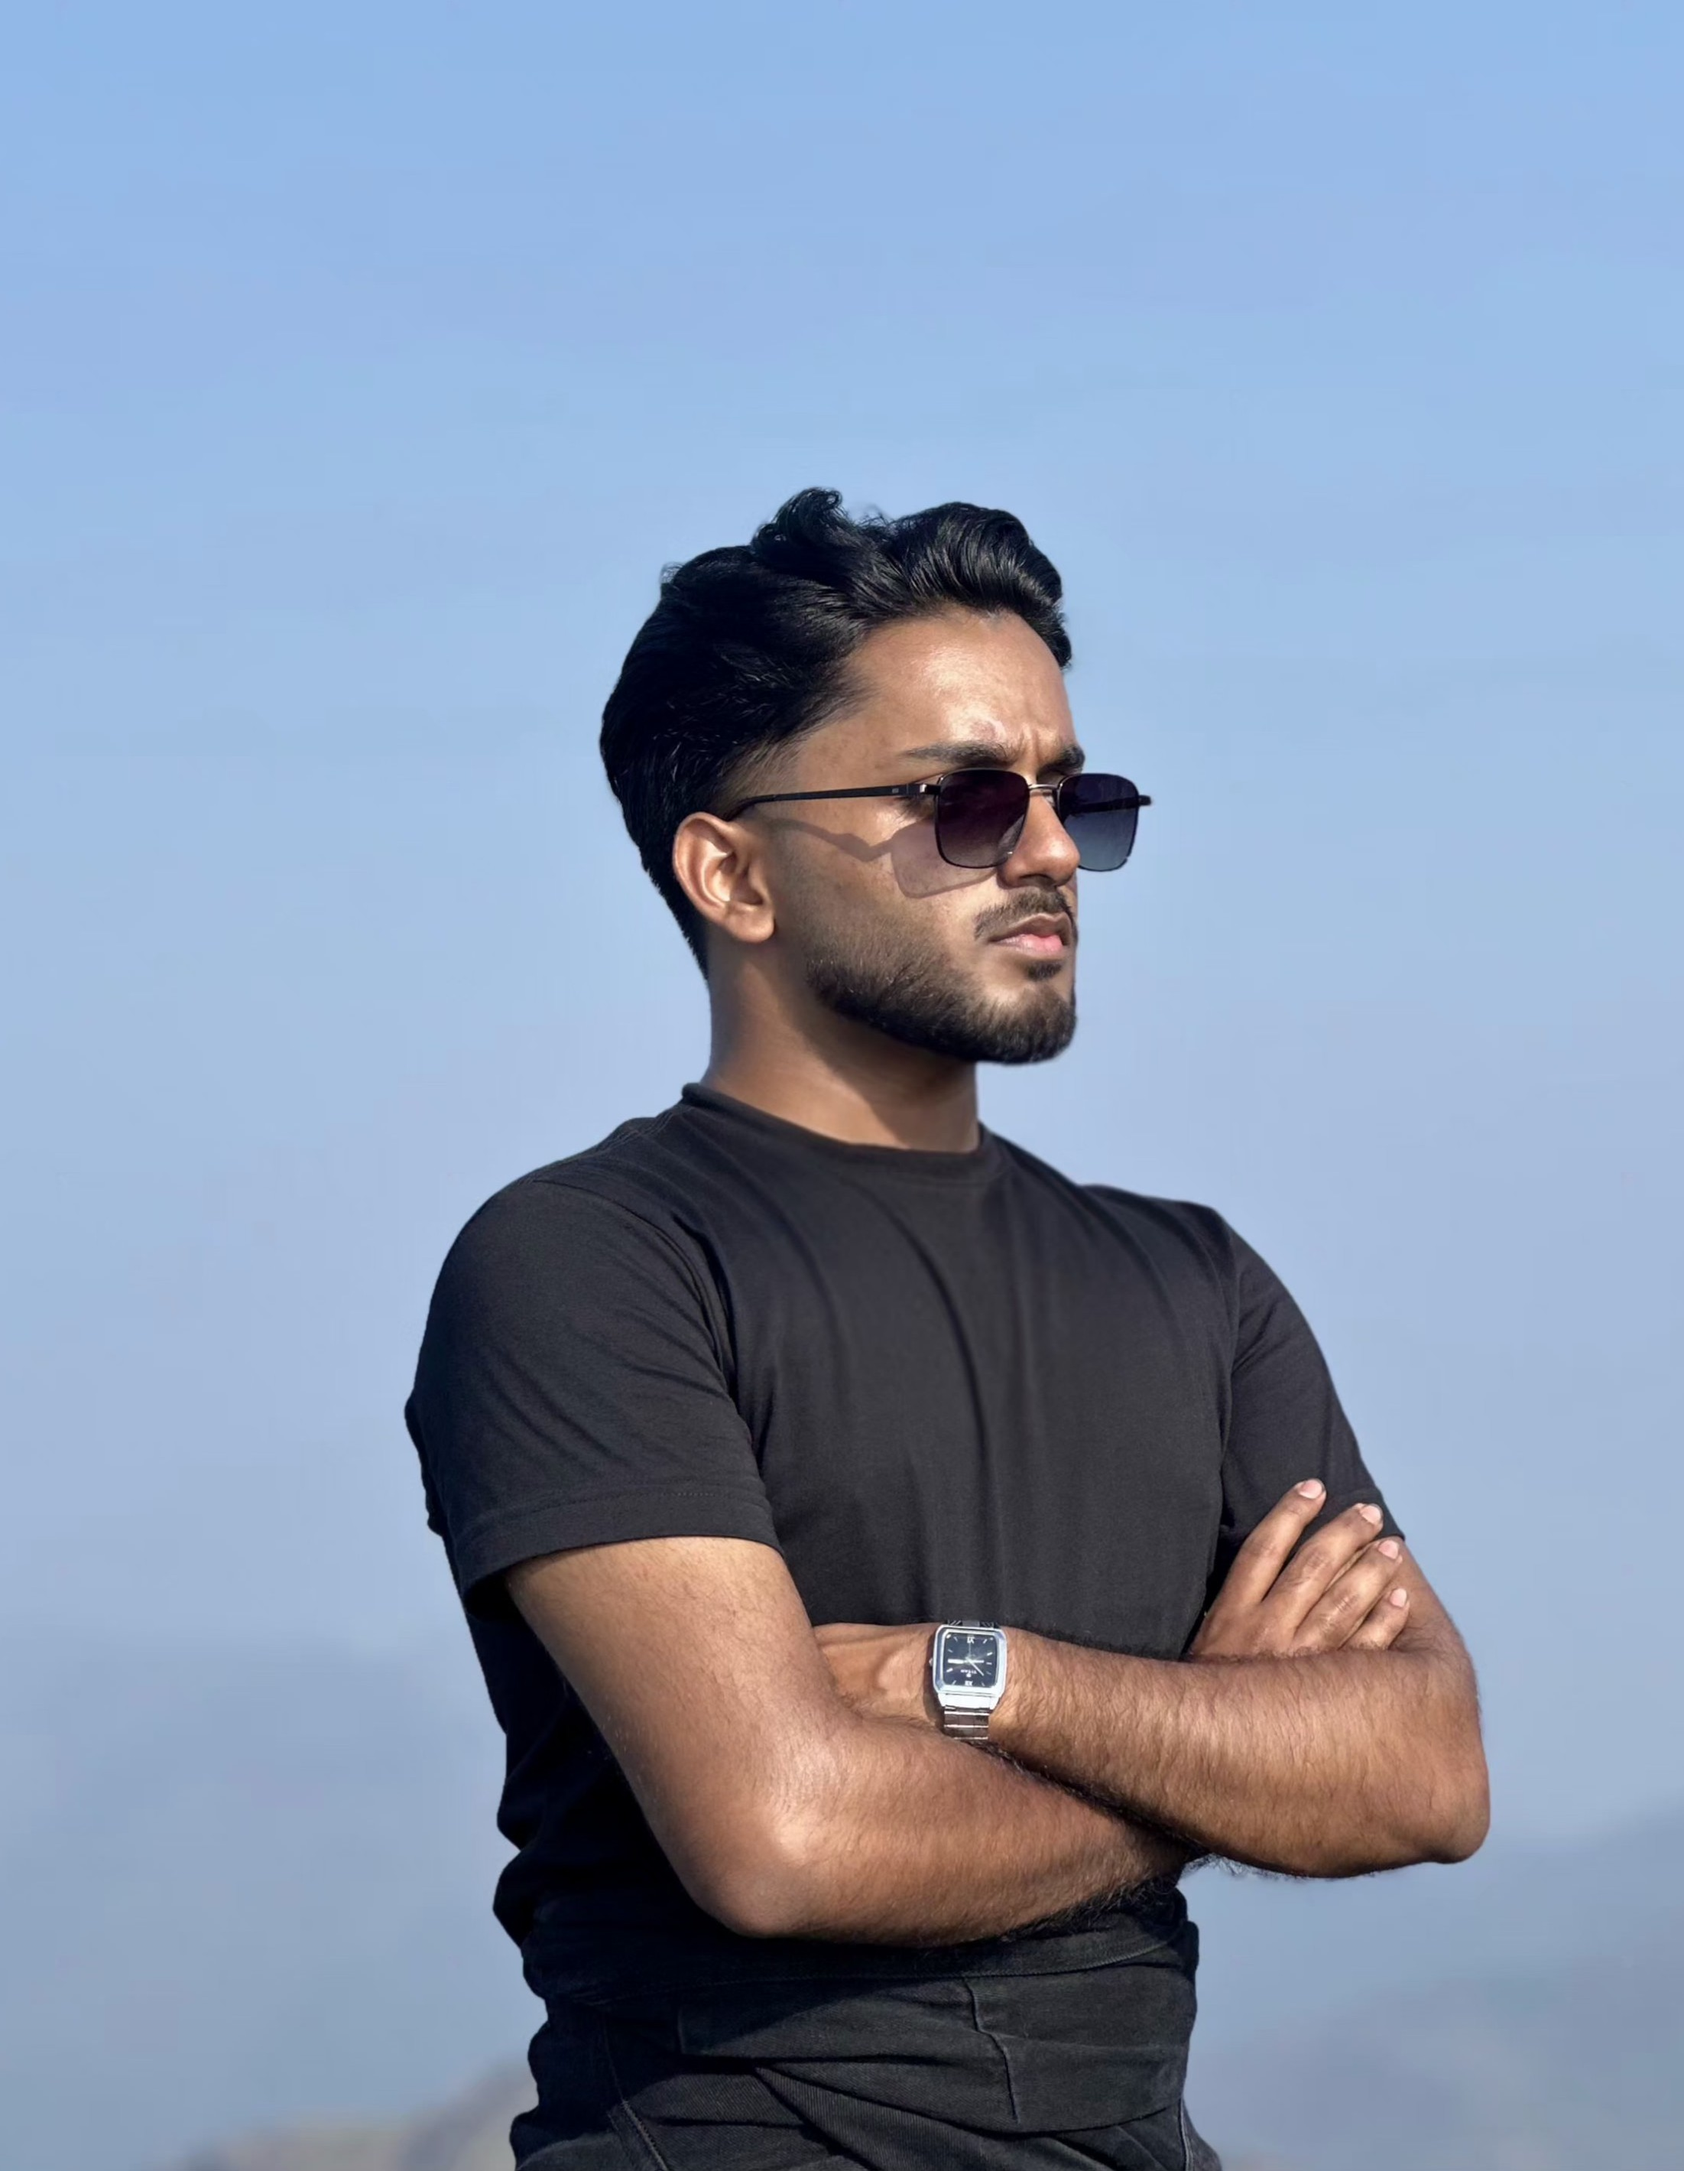
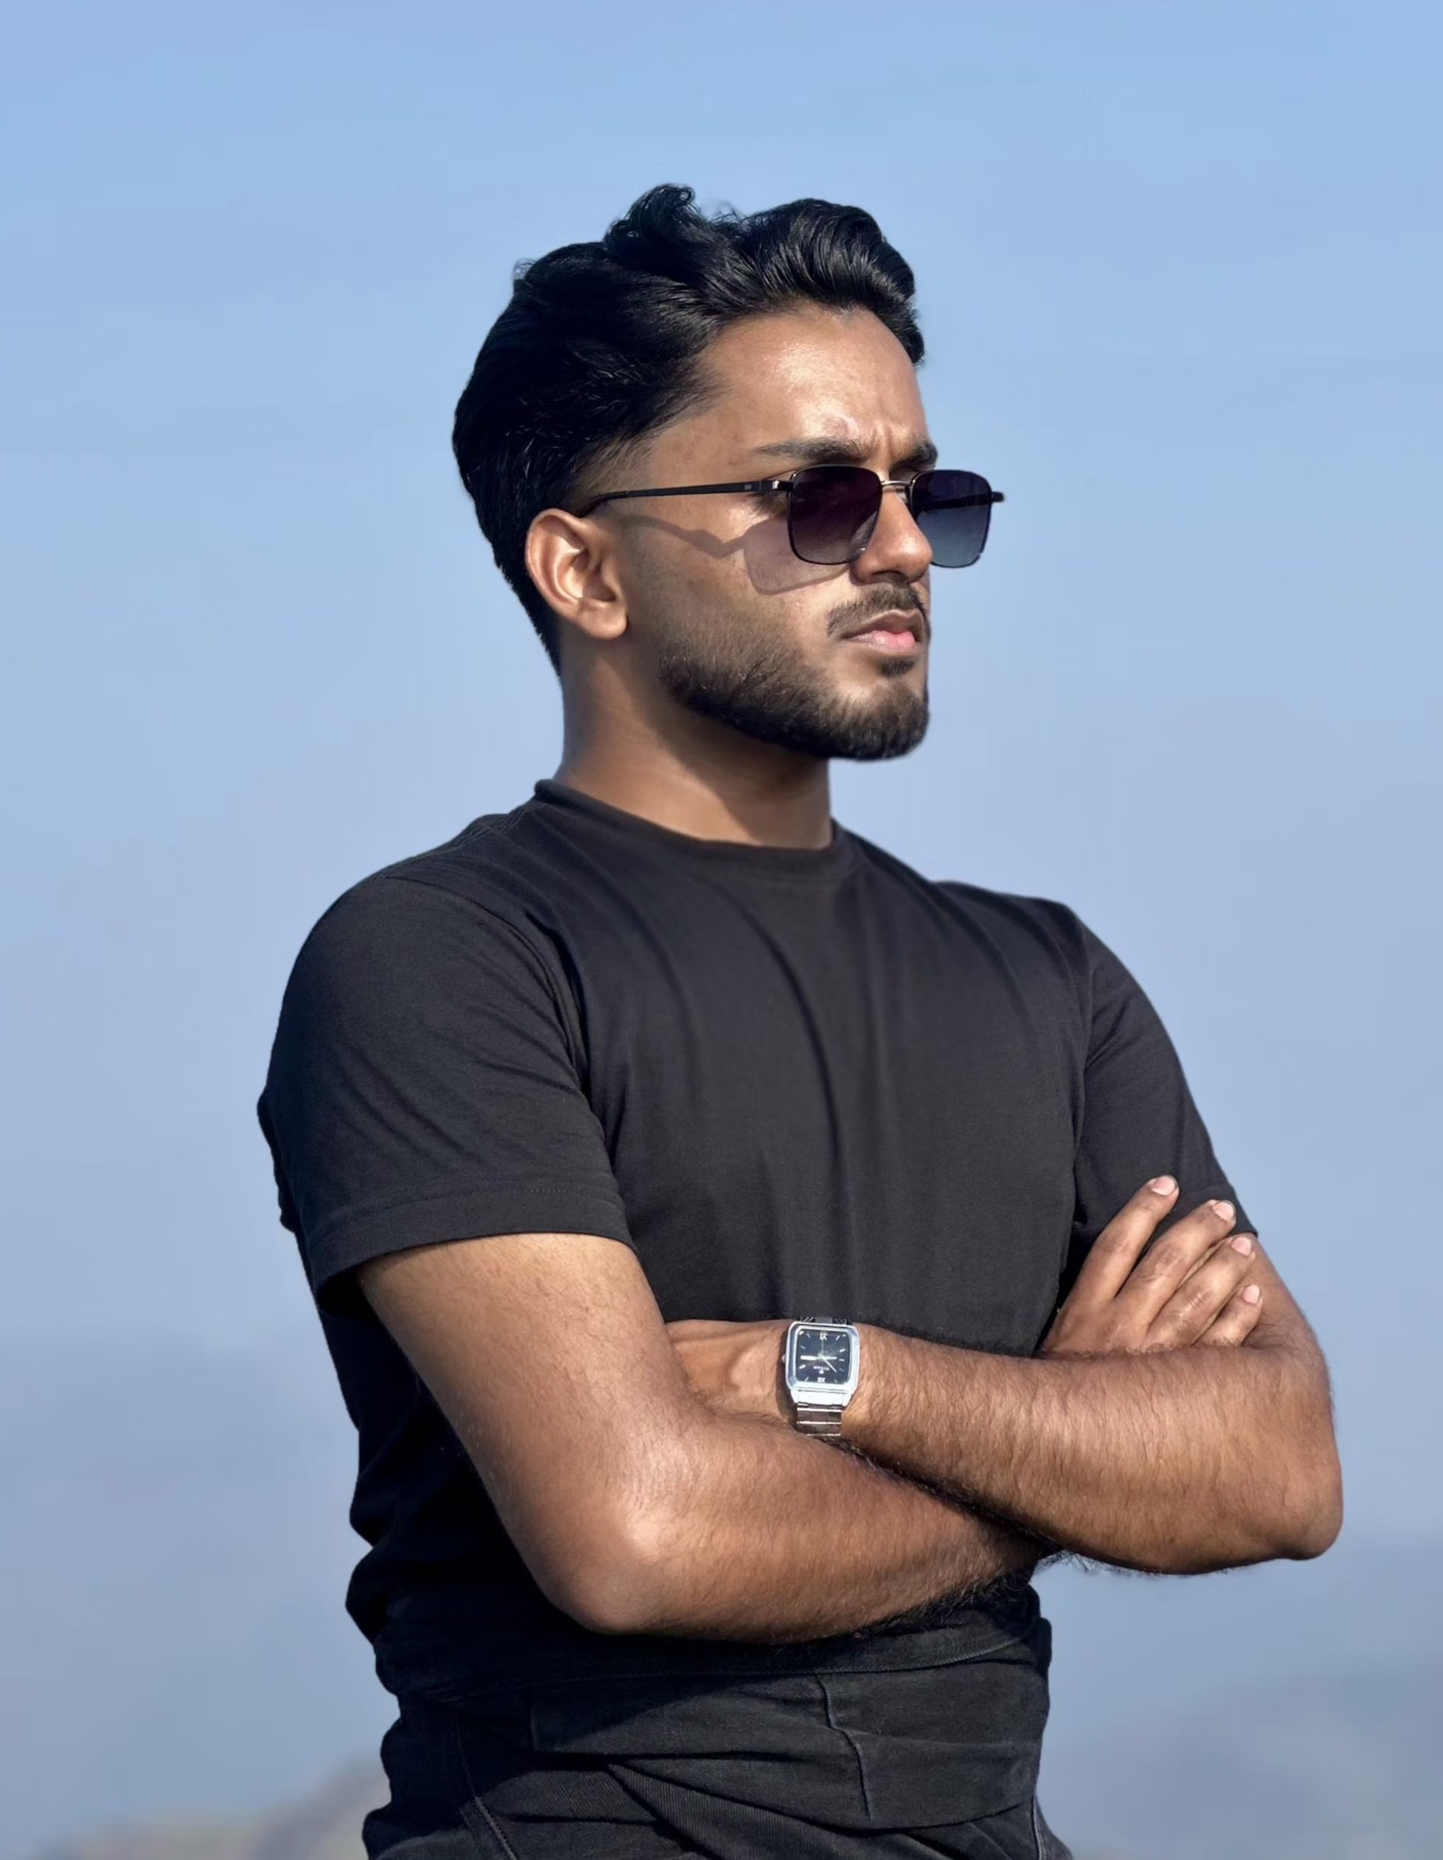
Added Suraj

Changed region(s): [[0.1537, 0.0938, 0.9528, 1.0], [0.0307, 0.9688, 0.1229, 1.0], [0.5533, 0.5625, 0.584, 0.625]]

diff --git a/app/team/page.tsx b/app/team/page.tsx
@@ -8,6 +8,8 @@ import { motion, AnimatePresence, Variants } from "framer-motion";
 import { useRouter } from "next/navigation";
 import { ArrowLeft } from "lucide-react";
 
+
+
 type CoreMember = {
   name: string;
   role: string;
@@ -16,9 +18,11 @@ type CoreMember = {
 
 type TechMember = {
   name: string;
+  role: string;
   image: string;
   github?: string;
   linkedin?: string;
+  behance?: string;
 };
 
 const coreTeam: CoreMember[] = [
@@ -46,54 +50,71 @@ const coreTeam: CoreMember[] = [
 const techTeam: TechMember[] = [
   {
     name: "Abdul Rayif",
+    role: "Tech Lead",
     image: "/team/Rayif.jpeg",
     github: "https://github.com/Abdulrayifvp",
     linkedin: "https://www.linkedin.com/in/rayifvp",
   },
   {
     name: "Arun Mathew Ajay",
+    role: "Developer",
     image: "/team/ArunM.jpeg",
     github: "https://github.com/BluJay04",
     linkedin: "https://www.linkedin.com/in/arunmathewajay",
   },
   {
     name: "Shreya Nithin",
+    role: "Developer",
     image: "/team/Shreya.jpeg",
     github: "https://github.com/shreyanithin",
     linkedin: "https://www.linkedin.com/in/shreya-nithin-874872277",
   },
   {
     name: "Akarsh Balachandran",
+    role: "Designer",
     image: "/team/Akarsh.jpeg",
     github: "https://github.com/akrsh47",
     linkedin: "https://www.linkedin.com/in/akarshbalachandran",
   },
   {
+    name: "Suraj Sunil",
+    role: "Designer",
+    image: "/team/Suraj.png",
+    github: "https://github.com/thisisonebit",
+    linkedin: "https://www.linkedin.com/in/itssurajsunil",
+    behance: "https://www.behance.net/surajsunil1",
+  },
+  {
     name: "Sebin Thomas",
+    role: "Developer",
     image: "/team/Sebin.jpeg",
     github: "https://github.com/Abyssalwolf",
     linkedin: "https://www.linkedin.com/in/sebinthomas78",
   },
   {
     name: "Shiva Sajay",
+    role: "Developer",
     image: "/team/Shiva.jpeg",
     github: "https://github.com/shivaacodes",
     linkedin: "https://www.linkedin.com/in/shiva-sajay-03a473288",
   },
   {
     name: "Josh Joseph",
+    role: "Developer",
     image: "/team/Josh.jpeg",
     github: "https://github.com/JoshJoseph1234",
     linkedin: "https://www.linkedin.com/in/josh-joseph-b90a2829a",
   },
   {
     name: "Adithya Menon",
+    role: "Developer",
     image: "/team/Adithya.jpeg",
     github: "https://github.com/apm2004",
     linkedin: "https://www.linkedin.com/in/adithya-p-menon",
   },
   {
     name: "Akshay Sunil",
+    role: "Developer",
     image: "/team/Java.jpg",
     github: "https://github.com/Akshay6405",
     linkedin: "https://www.linkedin.com/in/akshay-sunil-b541b825a",
@@ -259,6 +280,7 @@ export default function TeamPage() {
                         src={member.image}
                         alt={member.name}
                         fill
+                        unoptimized
                         className="object-cover transition-transform duration-500 group-hover:scale-105"
                         sizes="(max-width: 640px) 100vw, (max-width: 1024px) 50vw, 25vw"
                       />
@@ -269,6 +291,9 @@ export default function TeamPage() {
                       <h3 className="text-base font-medium text-[#EB0028] font-clash">
                         {member.name}
                       </h3>
+                      <p className="mt-[0.25rem] text-sm text-white/60">
+                        {member.role}
+                      </p>
 
                       <div className="mt-[0.75rem] flex gap-[1rem]">
                         {member.github && (
@@ -292,6 +317,24 @@ export default function TeamPage() {
                             className="text-white/60 transition"
                           >
                             <Linkedin size={18} />
+                          </motion.a>
+                        )}
+
+                        {member.behance && (
+                          <motion.a
+                            whileHover={{ scale: 1.2 }}
+                            href={member.behance}
+                            target="_blank"
+                            rel="noopener noreferrer"
+                            className="transition"
+                          >
+                            <Image
+                              src="/behance.png"
+                              alt="Behance"
+                              width={18}
+                              height={18}
+                              className="opacity-60 hover:opacity-100 transition-opacity"
+                            />
                           </motion.a>
                         )}
                       </div>
